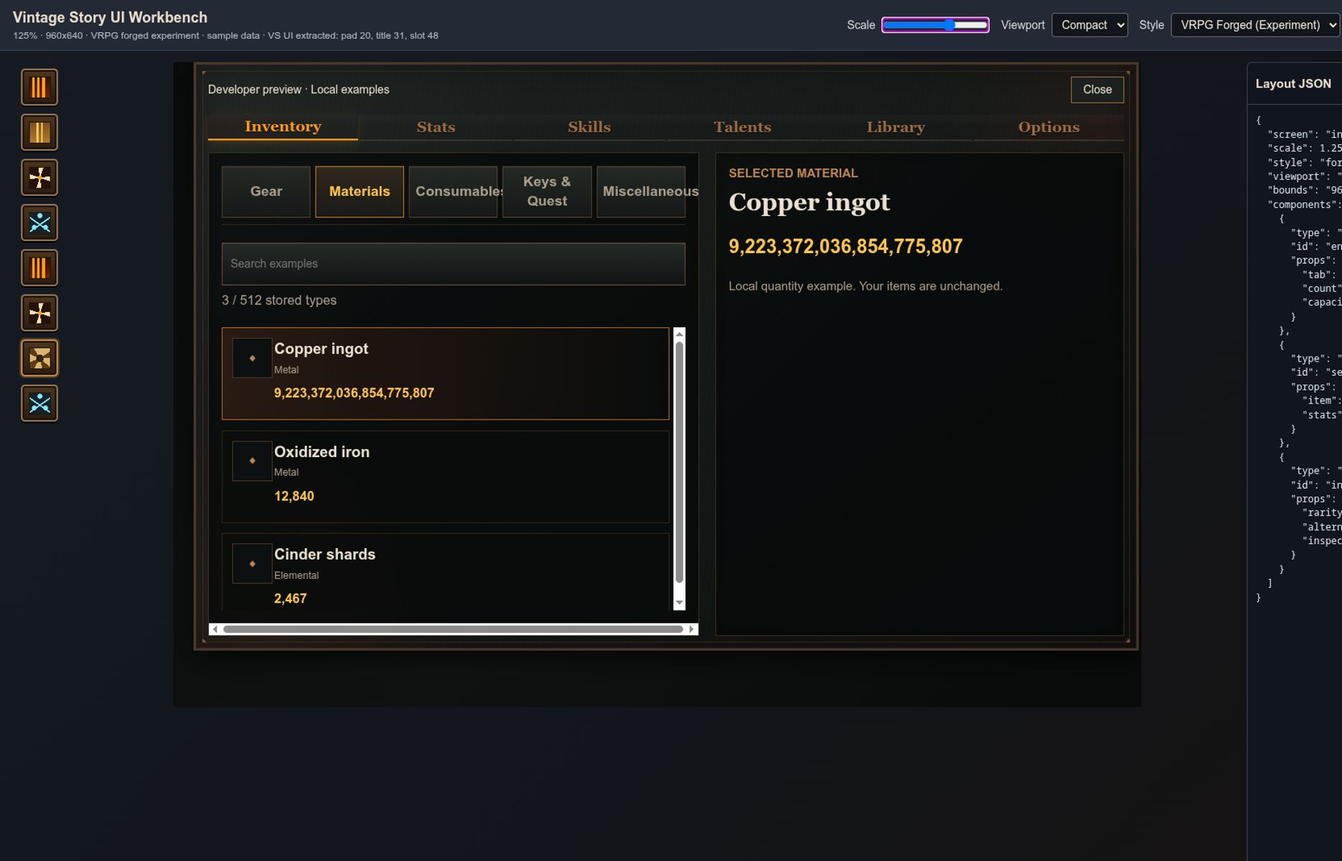
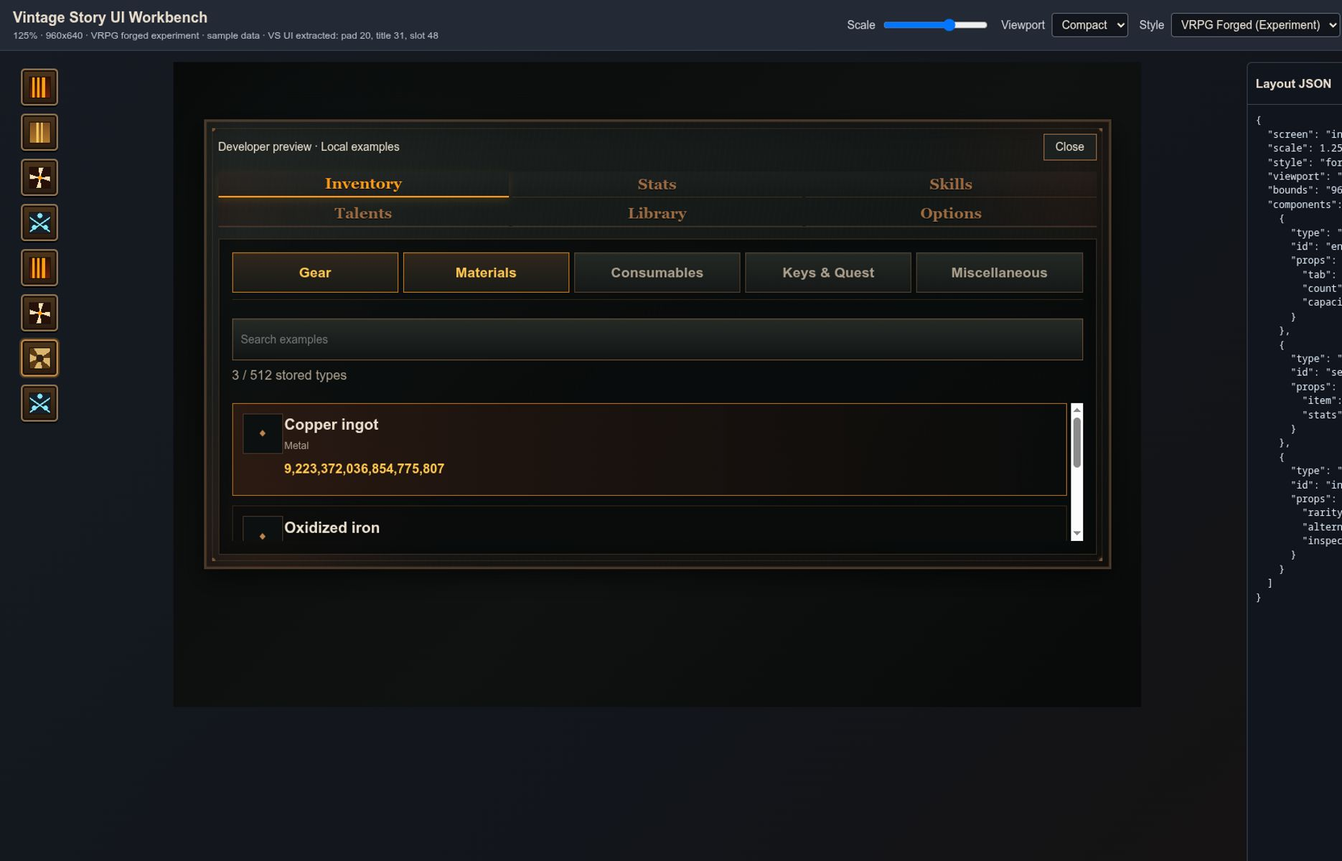
fix: keep player menu browsing reachable at small sizes

Changed region(s): [[0.1241, 0.0, 0.8684, 0.7708]]

diff --git a/VRPG/content/ui-workbench/unified-player-menu/layout-checks.js b/VRPG/content/ui-workbench/unified-player-menu/layout-checks.js
@@ -1,0 +1,30 @@
+// Read-only browser geometry audit. Run after fonts and stylesheet load; does not click or alter fixtures.
+window.VRPG_MENU_LAYOUT_AUDIT = function () {
+  const shell = document.querySelector(".vrpg-task4");
+  if (!shell) return { ok: false, failures: ["Player-menu preview is not open."] };
+  const failures = [], buttons = [], rows = [];
+  const visible = element => element && element.getBoundingClientRect().width > 0 && element.getBoundingClientRect().height > 0;
+  const browser = shell.querySelector(".vrpg-inventory-browser");
+  if (visible(browser) && browser.scrollWidth > browser.clientWidth + 1) failures.push("Browser requires horizontal scrolling.");
+  for (const button of shell.querySelectorAll(".vrpg-inventory-tabs button")) {
+    if (!visible(button)) continue;
+    const bounds = button.getBoundingClientRect(), range = document.createRange();
+    range.selectNodeContents(button);
+    const fragments = [...range.getClientRects()];
+    const fits = fragments.every(rect => rect.left >= bounds.left - .5 && rect.right <= bounds.right + .5 &&
+      rect.top >= bounds.top - .5 && rect.bottom <= bounds.bottom + .5);
+    if (!fits || button.scrollWidth > button.clientWidth + 1) failures.push("Category label clips: " + button.textContent);
+    buttons.push({ label: button.textContent, fits, width: bounds.width, scrollWidth: button.scrollWidth, clientWidth: button.clientWidth });
+  }
+  for (const row of shell.querySelectorAll(".vrpg-item-plate")) {
+    if (!visible(row)) continue;
+    const bounds = row.getBoundingClientRect(), icon = row.querySelector(".vrpg-item-glyph").getBoundingClientRect();
+    const label = row.querySelector("strong").getBoundingClientRect(), amount = row.querySelector("b")?.getBoundingClientRect();
+    if (icon.right > label.left + .5) failures.push("Icon overlaps label: " + row.querySelector("strong").textContent);
+    if (amount && (amount.bottom > bounds.bottom + .5 || amount.right > bounds.right + .5)) failures.push("Quantity escapes item row.");
+    rows.push({ label: row.querySelector("strong").textContent, iconRight: icon.right, labelLeft: label.left,
+      rowBottom: bounds.bottom, quantityBottom: amount?.bottom ?? null });
+  }
+  return { ok: failures.length === 0, failures, buttons, rows,
+    browser: visible(browser) ? { scrollWidth: browser.scrollWidth, clientWidth: browser.clientWidth } : null };
+};

diff --git a/VRPG/content/ui-workbench/unified-player-menu/inventory.css b/VRPG/content/ui-workbench/unified-player-menu/inventory.css
@@ -12,12 +12,15 @@
 .style-vrpg .vrpg-task4 [hidden] { display:none !important; }
 .style-vrpg .vrpg-task4 .vrpg-inventory-browser,
 .style-vrpg .vrpg-task4 .vrpg-inventory-inspector { padding:16px; min-width:0; min-height:0; }
-.style-vrpg .vrpg-task4 .vrpg-inventory-tabs { flex-wrap:wrap; padding-bottom:8px; gap:6px; }
-.style-vrpg .vrpg-task4 .vrpg-inventory-tabs button { flex:1 1 100px; white-space:normal; min-width:0; padding:7px; font-size:calc(14px * var(--ui-scale)); }
+.style-vrpg .vrpg-task4 .vrpg-inventory-tabs { display:flex; flex-wrap:wrap; min-width:0; padding-bottom:8px; gap:6px; }
+.style-vrpg .vrpg-task4 .vrpg-inventory-tabs button { flex:1 1 auto; width:auto; max-width:100%; min-width:min-content; height:auto; box-sizing:border-box; white-space:normal; overflow-wrap:anywhere; padding:8px 10px; line-height:1.3; font-size:calc(14px * var(--ui-scale)); }
 .style-vrpg .vrpg-task4 .vrpg-inventory-tools { grid-template-columns:minmax(0,1fr); gap:8px; }
+.style-vrpg .vrpg-task4 .vrpg-inventory-tools .vrpg-search { width:100%; max-width:100%; box-sizing:border-box; }
 .style-vrpg .vrpg-task4 .vrpg-inventory-tools > span { font-size:calc(13px * var(--ui-scale)); }
 .style-vrpg .vrpg-task4 .vrpg-inventory-grid { grid-template-columns:minmax(0,1fr); overflow-x:hidden; }
-.style-vrpg .vrpg-task4 .vrpg-item-plate { grid-template-columns:40px minmax(0,1fr); grid-template-rows:auto auto; gap:8px 12px; height:auto; min-height:calc(92px * var(--ui-scale)); padding:12px; box-sizing:border-box; align-content:start; }
+.style-vrpg .vrpg-task4 .vrpg-item-plate { grid-template-columns:calc(40px * var(--ui-scale)) minmax(0,1fr); grid-template-rows:auto auto; gap:8px 12px; height:auto; min-height:calc(92px * var(--ui-scale)); padding:12px; box-sizing:border-box; align-content:start; }
+.style-vrpg .vrpg-task4 .vrpg-item-glyph { width:100%; height:auto; aspect-ratio:1; min-width:0; box-sizing:border-box; }
+.style-vrpg .vrpg-task4 .vrpg-item-plate > span:not(.vrpg-item-glyph) { min-width:0; }
 .style-vrpg .vrpg-task4 .vrpg-item-plate strong { overflow-wrap:anywhere; font-size:calc(15px * var(--ui-scale)); }
 .style-vrpg .vrpg-task4 .vrpg-item-plate b { grid-column:2; overflow-wrap:anywhere; font-size:calc(13px * var(--ui-scale)); }
 .style-vrpg .vrpg-task4 .vrpg-large-quantity { overflow-wrap:anywhere; font-size:calc(19px * var(--ui-scale)); font-variant-numeric:tabular-nums; }

diff --git a/VRPG/src/Client/PlayerMenu/Shell/PlayerMenuShell.cs b/VRPG/src/Client/PlayerMenu/Shell/PlayerMenuShell.cs
@@ -89,22 +89,31 @@ public sealed class PlayerMenuShell : GuiElement
     {
         var bounds = Layout.Browser;
         Fill(ctx, bounds, PlayerMenuTheme.Iron950);
-        double tabWidth = (bounds.Width - 24) / 3;
-        var categories = TypedTabStrip.Categories;
-        for (int i = 0; i < categories.Length; i++)
-            Button(ctx, "category:" + categories[i], "category-" + categories[i],
-                new(bounds.X + 12 + i % 3 * tabWidth, bounds.Y + 10 + i / 3 * 38, tabWidth - 4, 34),
-                session.Current.Category == categories[i] ? MenuControlState.Selected : MenuControlState.Default);
-        Button(ctx, "count", "gallery-count", new(bounds.X + 12 + 2 * tabWidth, bounds.Y + 48, tabWidth - 4, 34));
-        controls.Add(("search", new(bounds.X + 12, bounds.Y + 94, bounds.Width - 24, 30), new("search", "search", MenuControlState.Default)));
+        if (Layout.CondensedBrowserChrome)
+        {
+            double half = (bounds.Width - 28) / 2;
+            Button(ctx, "category-next", "category-" + session.Current.Category, new(bounds.X + 12, bounds.Y + 2, half, 34), MenuControlState.Selected);
+            Button(ctx, "count", "gallery-count", new(bounds.X + 16 + half, bounds.Y + 2, half, 34));
+        }
+        else
+        {
+            double tabWidth = (bounds.Width - 24) / 3;
+            var categories = TypedTabStrip.Categories;
+            for (int i = 0; i < categories.Length; i++)
+                Button(ctx, "category:" + categories[i], "category-" + categories[i],
+                    new(bounds.X + 12 + i % 3 * tabWidth, bounds.Y + 10 + i / 3 * 38, tabWidth - 4, 34),
+                    session.Current.Category == categories[i] ? MenuControlState.Selected : MenuControlState.Default);
+            Button(ctx, "count", "gallery-count", new(bounds.X + 12 + 2 * tabWidth, bounds.Y + 48, tabWidth - 4, 34));
+        }
+        controls.Add(("search", Layout.BrowserSearch, new("search", "search", MenuControlState.Default)));
         var entries = FilteredEntries();
-        var clip = new MenuRect(bounds.X + 8, bounds.Y + PlayerMenuLayout.BrowserHeaderHeight, bounds.Width - 16, Math.Max(0, bounds.Height - PlayerMenuLayout.BrowserHeaderHeight - 4));
+        var clip = Layout.BrowserContent;
         ctx.Save(); ctx.Rectangle(clip.X, clip.Y, clip.Width, clip.Height); ctx.Clip();
         if (entries.Length == 0) Text(ctx, T(gallery.Entries(session.Current.Category).Count == 0 ? "empty-category" : "empty-search"), clip with { Height = 90 }, 18);
         int start = Math.Min(session.Current.ScrollAnchor, Math.Max(0, entries.Length - Layout.VisibleRows));
         foreach (var pair in entries.Skip(start).Take(Layout.RenderRowLimit).Select((entry, index) => (entry, index)))
         {
-            var row = new MenuRect(clip.X + 4, clip.Y + pair.index * PlayerMenuLayout.RowHeight, clip.Width - 8, 48);
+            var row = Layout.BrowserRow(pair.index);
             bool selected = session.Current.SelectedEntry == pair.entry.Id;
             Button(ctx, "entry:" + pair.entry.Id, "", row, selected ? MenuControlState.Selected : MenuControlState.Default);
             Text(ctx, T(pair.entry.NameKey) + " " + (start + pair.index + 1), new(row.X + 50, row.Y + 4, row.Width - 60, 22), 15);
@@ -228,6 +237,22 @@ public sealed class PlayerMenuShell : GuiElement
     }
     public override void OnKeyDown(ICoreClientAPI api, KeyEvent args)
     {
+        PlayerMenuBrowseKey? browseKey = args.KeyCode switch
+        {
+            (int)GlKeys.Up => PlayerMenuBrowseKey.Up,
+            (int)GlKeys.Down => PlayerMenuBrowseKey.Down,
+            (int)GlKeys.PageUp => PlayerMenuBrowseKey.PageUp,
+            (int)GlKeys.PageDown => PlayerMenuBrowseKey.PageDown,
+            (int)GlKeys.Home => PlayerMenuBrowseKey.Home,
+            (int)GlKeys.End => PlayerMenuBrowseKey.End,
+            _ => null
+        };
+        if (browseKey != null && PlayerMenuNavigation.BrowserHasKeyboardFocus(session.Current, Layout.AlternatePanes))
+        {
+            session.Update(PlayerMenuNavigation.MoveBrowserFocus(session.Current,
+                FilteredEntries().Select(entry => entry.Id).ToArray(), browseKey.Value, Layout.VisibleRows));
+            focus = session.Current.Focus; args.Handled = true; Refresh(); return;
+        }
         if (args.KeyCode == (int)GlKeys.Tab)
         {
             AdvanceFocus(args.ShiftPressed); args.Handled = true;

diff --git a/VRPG/tests/VRPG.Tests/PlayerMenuComponentStateTests.cs b/VRPG/tests/VRPG.Tests/PlayerMenuComponentStateTests.cs
@@ -11,6 +11,42 @@ namespace VRPG.Tests;
 
 public sealed class PlayerMenuComponentStateTests
 {
+    [Theory]
+    [InlineData(120, 400, 350)]
+    [InlineData(512, 800, 520)]
+    public void KeyboardCanReachEveryEntryWhileKeepingFocusVisibleAndSelectionSeparate(int count, int width, int height)
+    {
+        var layout = PlayerMenuLayout.Resolve(width, height);
+        string[] ids = Enumerable.Range(0, count).Select(index => "preview-" + index).ToArray();
+        var view = new PlayerMenuViewState(SelectedEntry: "kept-selection");
+        for (int index = 0; index < count; index++)
+        {
+            view = PlayerMenuNavigation.MoveBrowserFocus(view, ids, PlayerMenuBrowseKey.Down, layout.VisibleRows);
+            Assert.Equal("entry:" + ids[index], view.Focus);
+            Assert.Equal("kept-selection", view.SelectedEntry);
+            Assert.InRange(index - view.ScrollAnchor, 0, layout.VisibleRows - 1);
+            Assert.True(layout.BrowserRow(index - view.ScrollAnchor).Bottom <= layout.BrowserContent.Bottom);
+        }
+        view = PlayerMenuNavigation.MoveBrowserFocus(view, ids, PlayerMenuBrowseKey.Home, layout.VisibleRows);
+        Assert.Equal("entry:preview-0", view.Focus); Assert.Equal(0, view.ScrollAnchor);
+        view = PlayerMenuNavigation.MoveBrowserFocus(view, ids, PlayerMenuBrowseKey.End, layout.VisibleRows);
+        Assert.Equal("entry:preview-" + (count - 1), view.Focus);
+        Assert.Equal(count - layout.VisibleRows, view.ScrollAnchor);
+    }
+
+    [Fact]
+    public void PagingUsesFocusedBrowserAndDoesNotMoveInspectorScroll()
+    {
+        string[] ids = Enumerable.Range(0, 120).Select(index => "preview-" + index).ToArray();
+        var view = new PlayerMenuViewState(Focus: "entry:preview-0", InspectorScroll: 96);
+        Assert.True(PlayerMenuNavigation.BrowserHasKeyboardFocus(view, alternatePanes: false));
+        view = PlayerMenuNavigation.MoveBrowserFocus(view, ids, PlayerMenuBrowseKey.PageDown, 5);
+        Assert.Equal("entry:preview-5", view.Focus); Assert.Equal(96, view.InspectorScroll);
+        view = PlayerMenuNavigation.MoveBrowserFocus(view, ids, PlayerMenuBrowseKey.PageUp, 5);
+        Assert.Equal("entry:preview-0", view.Focus);
+        Assert.False(PlayerMenuNavigation.BrowserHasKeyboardFocus(view with { InspectorOnly = true }, alternatePanes: true));
+        Assert.False(PlayerMenuNavigation.BrowserHasKeyboardFocus(view with { Focus = "equipment" }, alternatePanes: false));
+    }
     [Fact]
     public void ClosedDisclosureHasNoInteractiveChildrenAndReducedMotionIsImmediate()
     {

diff --git a/VRPG/src/Client/PlayerMenu/PlayerMenuNavigation.cs b/VRPG/src/Client/PlayerMenu/PlayerMenuNavigation.cs
@@ -1,8 +1,43 @@
+using System;
+using System.Collections.Generic;
+
 namespace VRPG.Client.PlayerMenu;
+
+public enum PlayerMenuBrowseKey { Up, Down, PageUp, PageDown, Home, End }
 
 /// <summary>Resolves input into a deterministic player-menu action.</summary>
 public static class PlayerMenuNavigation
 {
+    public static bool BrowserHasKeyboardFocus(PlayerMenuViewState view, bool alternatePanes) =>
+        !(alternatePanes && view.InspectorOnly) && (view.Focus.Length == 0 || view.Focus == "search"
+            || view.Focus == "count" || view.Focus.StartsWith("entry:", StringComparison.Ordinal)
+            || view.Focus.StartsWith("category", StringComparison.Ordinal));
+
+    /// <summary>Move focus through the complete query window, keeping selection separate until activation.</summary>
+    public static PlayerMenuViewState MoveBrowserFocus(PlayerMenuViewState view, IReadOnlyList<string> entries,
+        PlayerMenuBrowseKey key, int visibleRows)
+    {
+        if (entries.Count == 0 || visibleRows <= 0) return view;
+        int index = -1;
+        for (int i = 0; i < entries.Count; i++)
+            if (view.Focus == "entry:" + entries[i]) { index = i; break; }
+        bool hadEntryFocus = index >= 0;
+        if (!hadEntryFocus) index = Math.Clamp(view.ScrollAnchor, 0, entries.Count - 1);
+        index = Math.Clamp(key switch
+        {
+            PlayerMenuBrowseKey.Home => 0,
+            PlayerMenuBrowseKey.End => entries.Count - 1,
+            PlayerMenuBrowseKey.Up => index - (hadEntryFocus ? 1 : 0),
+            PlayerMenuBrowseKey.Down => index + (hadEntryFocus ? 1 : 0),
+            PlayerMenuBrowseKey.PageUp => index - visibleRows,
+            _ => index + visibleRows
+        }, 0, entries.Count - 1);
+        int anchor = Math.Clamp(view.ScrollAnchor, 0, Math.Max(0, entries.Count - visibleRows));
+        if (index < anchor) anchor = index;
+        if (index >= anchor + visibleRows) anchor = index - visibleRows + 1;
+        return view with { Focus = "entry:" + entries[index], ScrollAnchor = anchor };
+    }
+
     public static PlayerMenuNavigationAction Resolve(PlayerMenuEntryPoint entryPoint, bool menuIsOpen)
     {
         if (menuIsOpen)

diff --git a/VRPG/src/Client/PlayerMenu/GuiDialogVrpgPlayerMenu.cs b/VRPG/src/Client/PlayerMenu/GuiDialogVrpgPlayerMenu.cs
@@ -34,8 +34,8 @@ public sealed class GuiDialogVrpgPlayerMenu : GuiDialog
             .AddInteractiveElement(shell, "shell");
         if (!layout.AlternatePanes || !controller.Session.Current.InspectorOnly)
         {
-            var b = layout.Browser;
-            composer.AddTextInput(ElementBounds.Fixed(b.X + 12, b.Y + 94, b.Width - 24, 30), value =>
+            var searchBounds = layout.BrowserSearch;
+            composer.AddTextInput(ElementBounds.Fixed(searchBounds.X, searchBounds.Y, searchBounds.Width, searchBounds.Height), value =>
             {
                 var input = new SearchField(); input.SetText(value ?? "");
                 controller.Session.Update(controller.Session.Current with { Search = input.Text, ScrollAnchor = 0 });
@@ -60,6 +60,11 @@ public sealed class GuiDialogVrpgPlayerMenu : GuiDialog
         if (intent == "back") { session.Update(session.Current with { Focus = "" }); controller.Back(); if (!session.IsOpen) { TryClose(); return; } }
         else if (intent.StartsWith("page:", StringComparison.Ordinal)) session.Navigate(Enum.Parse<PlayerMenuPage>(intent[5..]));
         else if (intent.StartsWith("entry:", StringComparison.Ordinal)) session.Update(session.Current with { SelectedEntry = intent[6..], InspectorOnly = layout?.AlternatePanes == true, InspectorScroll = 0 });
+        else if (intent == "category-next")
+        {
+            var categories = TypedTabStrip.Categories;
+            session.Update(session.Current with { Category = categories[(Array.IndexOf(categories, session.Current.Category) + 1) % categories.Length], SelectedEntry = "", ScrollAnchor = 0, EquipmentExpanded = false });
+        }
         else if (intent.StartsWith("category:", StringComparison.Ordinal))
         {
             session.Update(session.Current with { Category = intent[9..], SelectedEntry = "", ScrollAnchor = 0, EquipmentExpanded = false });

diff --git a/VRPG/src/Client/PlayerMenu/Shell/PlayerMenuLayout.cs b/VRPG/src/Client/PlayerMenu/Shell/PlayerMenuLayout.cs
@@ -14,8 +14,12 @@ public sealed record PlayerMenuLayout(double Width, double Height, bool Alternat
     MenuRect Close, MenuRect Back, MenuRect Browser, MenuRect Inspector, MenuRect PrimaryAction)
 {
     public const double RowHeight = 54;
-    public const double BrowserHeaderHeight = 142;
-    public int VisibleRows => Math.Max(0, (int)((Browser.Height - BrowserHeaderHeight) / RowHeight));
+    public bool CondensedBrowserChrome => Browser.Height < 142 + RowHeight + 4;
+    public double BrowserHeaderHeight => CondensedBrowserChrome ? 78 : 142;
+    public MenuRect BrowserSearch => new(Browser.X + 12, Browser.Y + (CondensedBrowserChrome ? 40 : 94), Browser.Width - 24, 30);
+    public MenuRect BrowserContent => new(Browser.X + 8, Browser.Y + BrowserHeaderHeight, Browser.Width - 16, Math.Max(0, Browser.Height - BrowserHeaderHeight - 4));
+    public MenuRect BrowserRow(int visibleIndex) => new(BrowserContent.X + 4, BrowserContent.Y + visibleIndex * RowHeight, BrowserContent.Width - 8, 48);
+    public int VisibleRows => Math.Max(0, (int)((BrowserContent.Height + RowHeight - 48) / RowHeight));
     public int RenderRowLimit => VisibleRows + 2;
     public static PlayerMenuLayout ForViewport(double width, double height, double scale) =>
         Resolve(Math.Min(1120, Math.Max(0, width / Math.Max(.25, scale) - 24)),

diff --git a/VRPG/tests/VRPG.Tests/PlayerMenuSessionStateTests.cs b/VRPG/tests/VRPG.Tests/PlayerMenuSessionStateTests.cs
@@ -7,6 +7,22 @@ namespace VRPG.Tests;
 public sealed class PlayerMenuSessionStateTests
 {
     [Fact]
+    public void CharacterShowsEquipmentInAlternatePaneAndBackReturnsToBrowse()
+    {
+        var state = new PlayerMenuSessionState();
+        state.Enter(PlayerMenuEntryPoint.InventoryMenu);
+        state.Update(state.Current with { SelectedEntry = "preview-1", InspectorScroll = 200 });
+        state.Close();
+        state.Enter(PlayerMenuEntryPoint.CharacterMenu);
+        Assert.True(state.Current.InspectorOnly, "Character must reveal the equipment-bearing pane when only one pane fits.");
+        Assert.True(state.Current.EquipmentExpanded);
+        Assert.Equal("", state.Current.SelectedEntry);
+        Assert.Equal(0, state.Current.InspectorScroll);
+        state.Back();
+        Assert.True(state.IsOpen);
+        Assert.False(state.Current.InspectorOnly);
+    }
+    [Fact]
     public void RestoresCategorySelectionAndScrollWhileCharacterForcesGear()
     {
         var state = new PlayerMenuSessionState();

diff --git a/VRPG/tests/VRPG.Tests/PlayerMenuLayoutTests.cs b/VRPG/tests/VRPG.Tests/PlayerMenuLayoutTests.cs
@@ -5,6 +5,17 @@ namespace VRPG.Tests;
 
 public sealed class PlayerMenuLayoutTests
 {
+    [Fact]
+    public void SmallWindowKeepsASelectableBrowserRowBelowItsChrome()
+    {
+        var layout = PlayerMenuLayout.Resolve(400, 350);
+        Assert.True(layout.VisibleRows >= 1, "The smallest supported window must expose a complete selectable row.");
+        var row = layout.BrowserRow(0);
+        Assert.True(layout.BrowserSearch.Bottom <= layout.BrowserContent.Y);
+        Assert.True(row.Y >= layout.BrowserContent.Y && row.Bottom <= layout.BrowserContent.Bottom);
+        Assert.True(row.X >= layout.BrowserContent.X && row.Right <= layout.BrowserContent.Right);
+        Assert.True(layout.BrowserContent.Contains(row.X + row.Width / 2, row.Y + row.Height / 2));
+    }
     [Theory]
     [InlineData(1120, 680)][InlineData(800, 520)][InlineData(640, 480)][InlineData(400, 350)]
     public void CriticalControlsStayInsideAndPanesDoNotOverlap(double width, double height)

diff --git a/VRPG/src/Client/PlayerMenu/PlayerMenuSessionState.cs b/VRPG/src/Client/PlayerMenu/PlayerMenuSessionState.cs
@@ -24,7 +24,11 @@ public sealed class PlayerMenuSessionState
         var action = PlayerMenuNavigation.Resolve(entry, IsOpen);
         if (action.ShouldClose) { Close(); return; }
         IsOpen = true; Navigate(action.Page);
-        if (action.ExpandEquipment) Update(Current with { Category = PlayerItemCategories.Gear, EquipmentExpanded = true, InspectorOnly = false });
+        if (action.ExpandEquipment) Update(Current with
+        {
+            Category = PlayerItemCategories.Gear, EquipmentExpanded = true, InspectorOnly = true,
+            SelectedEntry = "", InspectorScroll = 0
+        });
     }
     public void Navigate(PlayerMenuPage page)
     {

diff --git a/VRPG/content/ui-workbench/unified-player-menu/README.md b/VRPG/content/ui-workbench/unified-player-menu/README.md
@@ -2,7 +2,7 @@
 
 This directory owns the browser preview source independently of the ignored temporary workbench. It contains isolated examples, not a live inventory client. `fixture.js` keeps quantities as decimal strings and the renderer formats them with `BigInt`. Category codes match `PlayerItemCategories`; capacity seeds are 120 unique entries and 512 ordinary aggregates.
 
-The working preview is `tmp/Tools/vs-ui-workbench/index.html?screen=inventory&style=forged`. Its `scripts/player-menu-fixture.js`, `scripts/render-inventory.js` and `styles/player-menu-inventory.css` match this directory's `fixture.js`, `render-inventory.js` and `inventory.css`. The index loads the fixture before the renderer. When restoring the workbench, copy these three sources to those paths and retain that script order. The renderer is deliberately part of the existing workbench, not a standalone website.
+The working preview is `tmp/Tools/vs-ui-workbench/index.html?screen=inventory&style=forged`. Its `scripts/player-menu-fixture.js`, `scripts/render-inventory.js`, `styles/player-menu-inventory.css` and `scripts/player-menu-layout-checks.js` match this directory's `fixture.js`, `render-inventory.js`, `inventory.css` and `layout-checks.js`. The index loads the fixture and checks before the renderer. When restoring the workbench, copy these four sources to those paths and retain that script order. The renderer is deliberately part of the existing workbench, not a standalone website.
 
 Native preview build (from repository root):
 
@@ -12,8 +12,10 @@ dotnet build VRPG/VRPG.csproj -p:DisableSharedDeploy=true -p:DeployToVS=false -p
 
 Launch Vintage Story 1.22.7 with `VRPG_PLAYER_MENU_GALLERY=1` in its environment, an isolated test data path, and `--addModPath` pointing to the absolute `VRPG/bin/Debug` directory. Load a world, then use `.vrpgmenugallery` in client chat. Without the environment opt-in, the gallery system is not loaded and its command is not registered. The command does not replace either Vanilla dialog and does not attach a network channel or own an item container.
 
-Native gallery controls: select a top page or typed category, search, select an entry, expand Equipment in Gear, and scroll independently in the browser and inspector. Volume cycles normal/maximum/zero/one examples, capped to the category's capacity. Next state cycles the component state matrix; Long labels stresses wrapping; Motion switches normal/reduced press and disclosure feedback. The narrow layout alternates browse and inspect, with Back returning to browse. Tab/Enter reaches shell controls and the native search field. Page Up/Down scrolls the inspector. Both resolved Inventory and Character bindings close the open shell when no text field is typing.
+Native gallery controls: select a top page or typed category, search, select an entry, expand Equipment in Gear, and scroll independently in the browser and inspector. Short windows replace the typed strip with a cycling category selector so a complete item row stays reachable. Volume cycles normal/maximum/zero/one examples, capped to the category's capacity. Next state cycles the component state matrix; Long labels stresses wrapping; Motion switches normal/reduced press and disclosure feedback. The narrow layout alternates browse and inspect, with Back returning to browse. Character entry opens the Equipment pane. Tab/Enter reaches shell controls and the native search field; Up/Down, Page Up/Down and Home/End navigate all browser rows while keeping focus visible. Page Up/Down scrolls the inspector when it holds focus. Both resolved Inventory and Character bindings close the open shell when no text field is typing.
 
 Native inspection status on 2026-09-06: **unperformed**. The coordinator launched the real engine with an isolated profile but session validation returned `nosession / Bad`; a loaded world could not be reached without user sign-in. Browser captures are prototype evidence only and must not be labeled native screenshots. No default deployment, packaging or production readiness is claimed.
 
-The six `browser-*.jpg` captures cover desktop 100%, narrow materials 100/150%, narrow no-match search 100%, and compact materials 80/125%. Narrow 100% inspection/Back, exact quantity containment, and unchanged capacity during search were checked. Remaining observed prototype defects after three repair rounds: compact 125% clips the Consumables/Miscellaneous category labels and shows horizontal scrolling; narrow 150% lets icon boxes touch/overlap row labels. These are open visual issues, not passing scale checks.
+The six `browser-*.jpg` captures cover desktop 100%, narrow materials 100/150%, narrow no-match search 100%, and compact materials 80/125%. Narrow 100% inspection/Back, exact quantity containment, and unchanged capacity during search were checked. Review fix round 1 replaced the compact 125% and narrow 150% captures after correcting their category clipping/horizontal scrolling and icon/label overlap. The coordinator measured compact browser client/scroll widths 1087/1087 and all five category buttons 204/204; narrow browser widths 742/742, icon-to-label gaps 12px, and quantities inside their rows. These are targeted prototype checks, not a full native scale-matrix pass.
+
+For a repeatable DOM geometry check in a normal page context, run `window.VRPG_MENU_LAYOUT_AUDIT()` after fonts/styles load. It returns failures and measurements without changing the UI. Isolated browser evaluation may not expose page globals; in that case measure the same selectors directly or evaluate the script in that context. The coordinator used direct DOM measurements for the recorded checks.
